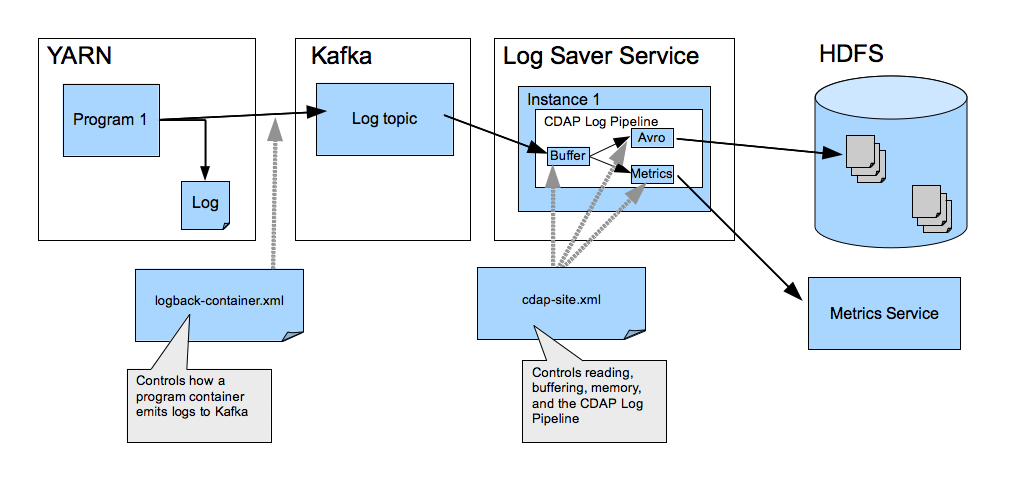
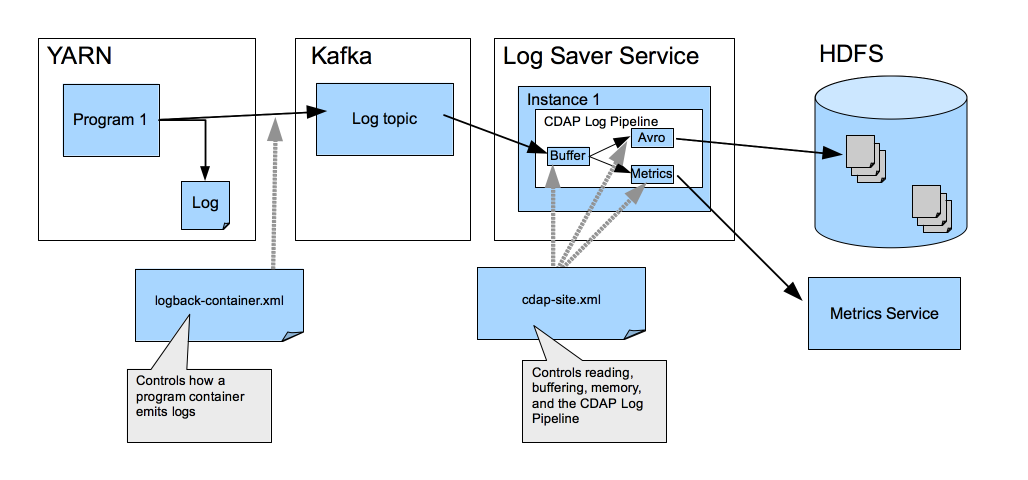
Changes per updates.

diff --git a/cdap-docs/admin-manual/source/operations/logging.rst b/cdap-docs/admin-manual/source/operations/logging.rst
@@ -75,14 +75,14 @@ Logging uses the standard `SLF4J (Simple Logging Facade for Java)
 <https://logback.qos.ch/manual>`__. Logging is configured using instances of Logback's
 "logback" file, consisting of *log pipelines* with *log appenders*:
 
-  - A **log pipeline** is a process that consumes log events from Kafka, invokes
-    *logback appenders* defined in its configuration, buffering, sorting, and then
-    persisting the log messages.
+  - A **log pipeline** is a process that consumes log events from Kafka, buffers, groups
+    by application or program, sorts, and then invokes the *log appenders* defined in its
+    configuration.
 
-  - A **logback appender** (or *appender*) is a Java class, responsible for consuming and
-    processing messages; typically, this includes persisting the log events. It can also
-    collect metrics, maintain metadata about the storage, or emit alerts when it finds
-    certain messages.
+  - A **log appender** (or *appender*) is a Java class, responsible for consuming and
+    processing messages; typically, this includes persisting the log events. It can also,
+    for example, collect metrics, maintain metadata about the storage, or emit alerts when
+    it finds certain messages.
 
 
 User Application Program Logs
@@ -107,7 +107,7 @@ For instance, in a flowlet you can write::
     output.emit(wordCount);
   }
 
-This will emit "debug" level messages from a flowlet when it is processing an event.
+This will emit "debug" level messages from the flowlet when it is processing an event.
 
 Retrieving Log Messages from a Program
 --------------------------------------
@@ -163,11 +163,11 @@ for the modified logback file to take effect. Changing the ``logback-container.x
 only affect programs that are started after the change; existing running programs will not
 be affected.
 
-- For **Distributed CDAP:** the ``logback-container.xml`` file is located in ``/etc/cdap/conf``.
-- For **Standalone CDAP:** as containers are replaced with Java threads, a single
+- For **Standalone CDAP:** As the entire Standalone CDAP runs in a single JVM, the
   ``logback.xml`` file, located in  ``<cdap-sdk-home>/conf``, configures both "container"
   and CDAP system service logging.
-  
+- For **Distributed CDAP:** the ``logback-container.xml`` file is located in ``/etc/cdap/conf``.
+
 You can also use a custom "logback" file with your application, as described in the
 Developers' Manual section :ref:`application-logback`.
 
@@ -175,13 +175,18 @@ Changing Program Log Levels
 ---------------------------
 The CDAP :ref:`Logging HTTP RESTful API
 <http-restful-api-logging-changing-program-log-levels>` can be used to set the log levels
-of a program, either before a particular run or while it is running. Once changed, they
-can be reset back to what they were originally by using the :ref:`reset endpoint
-<http-restful-api-logging-resetting>`.
+of a program, either before a particular run or |---| in the case of a flow, service, or
+worker |---| while it is running. Once changed, they can be reset back to what they were
+originally by using the :ref:`reset endpoint <http-restful-api-logging-resetting>`.
+
+Only flows, services, or workers can be dynamically changed; other program types are
+currently not supported. Their log levels can only be changed using their preferences
+before the program starts.
 
 - To configure the log level before an application starts, you can add the logger name as the
-  key and log level as the value in the preferences. The logger name should be prefixed with
-  ``system.log.level``. 
+  key and log level as the value in the :ref:`preferences <http-restful-api-preferences>`,
+  using the :ref:`CDAP UI <cdap-ui>`, :ref:`CDAP CLI <cdap-cli>`, or other command line
+  tools. The logger name should be prefixed with ``system.log.level``. 
 
   For example, if you want to set the log level of the ``HelloWorld`` class of the
   :ref:`Hello World example <examples-hello-world>` to ``DEBUG``, you would use
@@ -189,8 +194,8 @@ can be reset back to what they were originally by using the :ref:`reset endpoint
   as the value. This can be applied to any package or classes. If the logger name is
   omitted, it will change the log level of ROOT.
 
-- To configure the log level of a program dynamically (such as a worker, flow, or service
-  which is currently running), see the :ref:`Logging HTTP RESTful API
+- To configure the log level of a program dynamically |---| such as a flow, service, or worker
+  which is currently running |---| see the :ref:`Logging HTTP RESTful API
   <http-restful-api-logging-changing-program-log-levels>`.
 
 **Note:** The :ref:`Logging HTTP RESTful API
@@ -216,12 +221,11 @@ The log messages emitted by CDAP system services can be retrieved by:
 - Using the :ref:`restful-api`: the :ref:`Logging HTTP RESTful API
   <http-restful-api-logging>` details :ref:`downloading the logs
   <http-restful-api-logging-downloading-system-logs>` emitted by a system service.
-- Log messages of system services can be viewed in the :ref:`CDAP UI <cdap-ui>`.
-
-- Log messages of a program can be viewed in the :ref:`CDAP UI <cdap-ui>`. In the
-  *Administration* page (accessible through the *CDAP* menu on the far-right)
-  click either a *Logs* icon (such as the *HBase* log icon circled in red, in the 
-  *Component Overview* section):
+  
+- Log messages of system services can be viewed in the :ref:`CDAP UI <cdap-ui>`. In the
+  *Administration* page (accessible through the *CDAP* menu on the far-right) click either
+  a *Logs* icon (such as the *HBase* log icon circled in red, in the *Component Overview*
+  section):
 
   .. figure:: /_images/logging/logging-cdap-ui-administration.png
       :figwidth: 100%
@@ -302,7 +306,7 @@ number of partitions used for ``log.publish.num.partitions`` must match the numb
 in the external service for the topic being used to publish logs (``log.kafka.topic``).
 
 *Note:* By default, ``log.publish.partition.key`` is set to ``program``, which means that
-all logs for the same program (and program type) go to the same partition.
+all logs for the same program go to the same partition.
 
 Log Saver Service
 -----------------
@@ -363,11 +367,11 @@ programs of an application and system services with the logging framework:
 
   - YARN writes the log messages emitted by containers to files inside the container.
 
+  - In addition, CDAP programs publish these messages to Kafka.
+
   - CDAP System Services run (depending on the service) either on cluster edge nodes or in
     YARN containers. Where they run determines the file that configures that service's
     logging.
-
-  - In addition, CDAP programs publish these messages to Kafka.
 
   - The Log Saver Service (*Log.saver*) is configured to read log messages for the
     ``logs.user-v2`` Kafka topic (set by the property ``log.kafka.topic``). The number of
@@ -411,28 +415,26 @@ programs of an application and system services with the logging framework:
 
 Custom Log Pipelines
 ====================
-For a custom log pipeline, create and configure a Logback XML file,
+For a custom log pipeline, create and configure a "logback" file,
 configuring loggers, appenders, and properties based on your requirements, and place the
 file at the path specified in the ``cdap-site.xml`` file by the property
 ``log.process.pipeline.config.dir`` of the ``cdap-site.xml`` file.
 
-Each custom pipeline requires a unique name, which is used for persisting the data and the
-retrieving of metadata. Properties controlling the pipeline (the
+Each custom pipeline requires a unique name. Properties controlling the pipeline (the
 ``log.process.pipeline.*`` properties) are described :ref:`above
 <logging-monitoring-cdap-site-xml-configuration>`.
 
 For every XML file in the ``log.process.pipeline.config.dir`` directory, a separate log
-pipeline is created, providing isolation from other log pipelines. As they are separate
-Kafka consumers and processes, each pipeline is independent of |---| and doesn't affect
-the performance of |---| other log pipelines. Though CDAP has been tested with multiple
-log pipelines and appenders, the fewer of each that are specified will provide better
-performance.
+pipeline is created. As they are separate Kafka consumers and processes, each pipeline is
+isolated and independent of each other. The performance of one pipeline does not affect
+the performance of another. Though CDAP has been tested with multiple log pipelines and
+appenders, the fewer of each that are specified will provide better performance.
 
 .. _logging-monitoring-configuring-custom-log-pipelines:
 
 Configuring Custom Log Pipelines
 --------------------------------
-CDAP looks for Logback XML files located in a directory as set by the property
+CDAP looks for "logback" files located in a directory as set by the property
 ``log.process.pipeline.config.dir`` in the :ref:`cdap-site.xml
 <appendix-cdap-default-logging>` file. In the default configuration, this is:
   
@@ -510,13 +512,13 @@ Here is an example "logback" file, using two appenders (``STDOUT`` and
 
 Custom Log Appender
 -------------------
-If you need an appender beyond what is available through Logback or CDAP, you can write
-and implement your own custom appender. See the `Logback documentation
-<https://logback.qos.ch/manual/appenders.html>`__ for information on this.
-
 You can use any existing `logback <https://logback.qos.ch/manual/appenders.html>`__
 appender. The ``RollingLocationLogAppender`` |---| an extension of the Logback
 ``FileAppender`` |---| lets you use HDFS locations in your log pipelines. 
+
+If you need an appender beyond what is available through Logback or CDAP, you can write
+and implement your own custom appender. See the `Logback documentation
+<https://logback.qos.ch/manual/appenders.html>`__ for information on this.
 
 .. highlight:: java
 

diff --git a/cdap-docs/reference-manual/source/http-restful-api/logging.rst b/cdap-docs/reference-manual/source/http-restful-api/logging.rst
@@ -1,7 +1,7 @@
 .. meta::
     :author: Cask Data, Inc.
     :description: HTTP RESTful Interface to the Cask Data Application Platform
-    :copyright: Copyright © 2014-2016 Cask Data, Inc.
+    :copyright: Copyright © 2014-2017 Cask Data, Inc.
 
 .. _http-restful-api-logging:
 
@@ -171,6 +171,7 @@ Log levels can be set for a particular run of a program. Once changed, they can 
 they started with by using the :ref:`reset endpoint <http-restful-api-logging-resetting>` shown below.
 
 **Note:** The log levels can only be changed for programs that are running under Distributed CDAP.
+Currently, only flows, services, or workers are supported.
 
 Setting Program Log Levels
 --------------------------
@@ -207,7 +208,7 @@ and, in all cases, with a JSON map in the request body consisting of a map of lo
    * - ``version-id``
      - Version of the application
    * - ``program-type``
-     - One of ``flows``, ``mapreduce``, ``services``, ``spark``, ``workers``, or ``workflows``
+     - One of ``flows``, ``services``, or ``workers``
    * - ``program-id``
      - Name of the program
    * - ``flow-id``
@@ -262,7 +263,7 @@ If the body is not provided or is empty, it will reset the log levels of all log
    * - ``version-id``
      - Version of the application
    * - ``program-type``
-     - One of ``flows``, ``mapreduce``, ``services``, ``spark``, ``workers``, or ``workflows``
+     - One of ``flows``, ``services``, or ``workers``
    * - ``program-id``
      - Name of the program
    * - ``flow-id``
